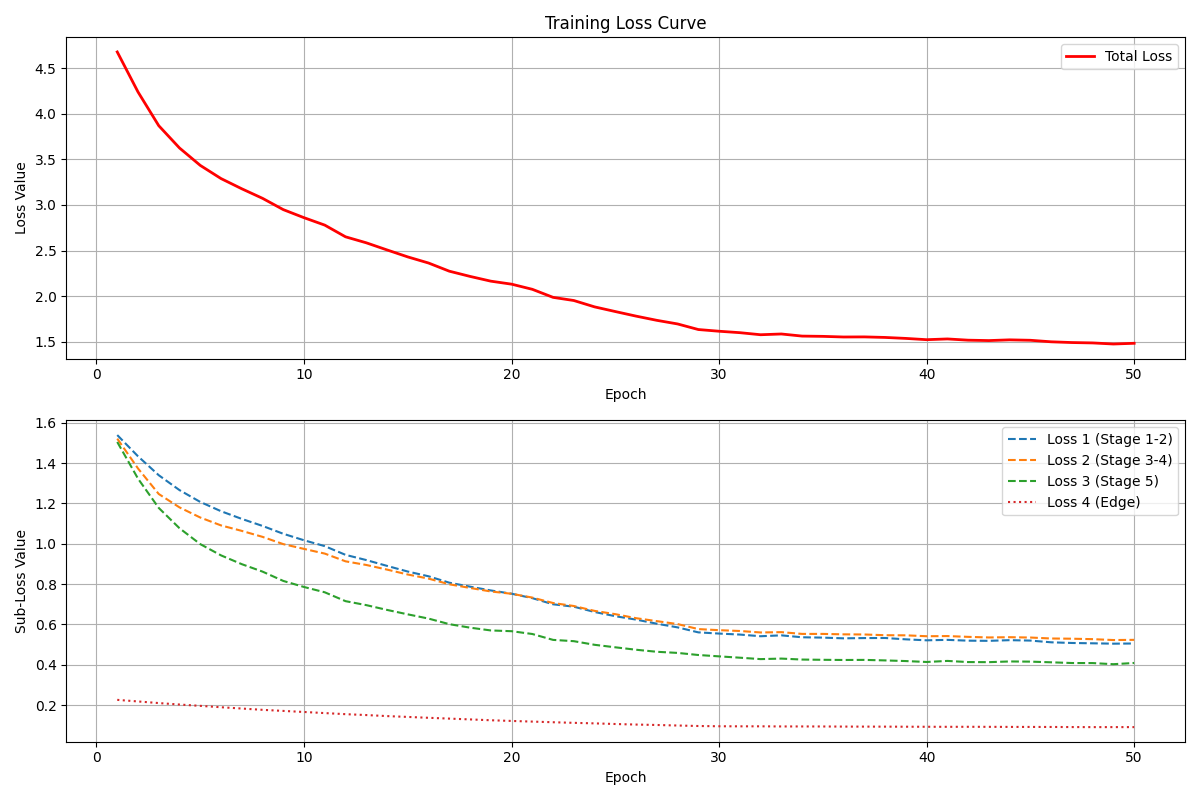
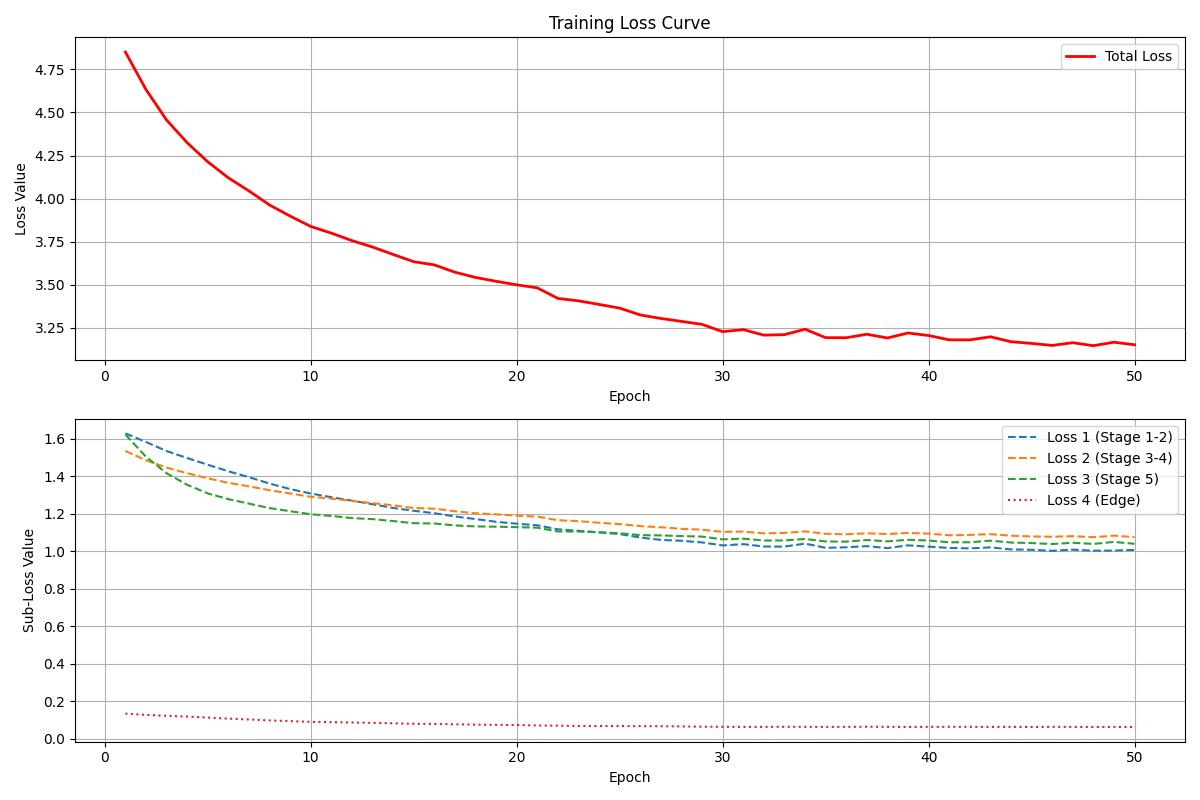
Update

diff --git a/project/train.py b/project/train.py
@@ -10,7 +10,7 @@ from tqdm import tqdm
 
 from utils.utils import clip_gradient, adjust_lr, IOU
 from utils.data import get_loader
-
+from models.backbone.mobileone import reparameterize_entire_model
 from models.SeaNet import MyNet as SeaNet
 
 device = torch.device('cuda' if torch.cuda.is_available() else 'cpu')
@@ -156,3 +156,43 @@ plt.legend()
 plt.tight_layout()
 plt.savefig('loss_curve.png')
 print("Loss curve saved as 'loss_curve.png'")
+
+import torch
+import onnx
+from onnxsim import simplify
+
+# 1. 确保模型处于 eval 模式 (非常重要，否则会导出 Dropout/BatchNorm 的训练状态)
+model.eval()
+
+model = reparameterize_entire_model(model)
+
+# 2. 创建一个虚拟输入张量
+# 假设你的输入图片大小是 288x288，通道数是 3，BatchSize 设为 1
+# 如果你的模型在 GPU 上，这个 tensor 也要放到 GPU 上
+dummy_input = torch.randn(1, 3, 288, 288).cuda()
+
+# 3. 导出模型
+torch.onnx.export(
+    model,                      # 你的模型对象
+    dummy_input,                # 【修正点】这里必须传虚拟输入，不能直接传文件名
+    "./models/SeaNet.onnx",              # 这里才是保存的文件名
+    export_params=True,         # 是否将权重存入文件
+    opset_version=18,           # 推荐使用 11 或更高，兼容性更好
+    do_constant_folding=False,   # 优化常量折叠
+    input_names=['input'],      # 输入节点命名
+    output_names=['output'],    # 输出节点命名
+    # 如果你想支持动态分辨率（比如输入图片大小不固定），可以加下面这行
+    # dynamic_axes={'input': {0: 'batch_size', 2: 'height', 3: 'width'}, 'output': {0: 'batch_size'}}
+)
+
+print("ONNX 模型导出成功！")
+
+print("正在使用 ONNX Simplifier 优化模型...")
+onnx_model = onnx.load("./models/SeaNet.onnx")
+model_simp, check = simplify(onnx_model)
+
+if check:
+    onnx.save(model_simp, "simp_SeaNet.onnx")
+    print(f"简化后的 ONNX 模型已成功保存至: simp_SeaNet.onnx")
+else:
+    print("警告: 简化后的模型未能通过 ONNX 验证！")

diff --git a/pth2onnx.py b/pth2onnx.py
@@ -1,5 +1,5 @@
 import torch
-from model.SeaNet_models import SeaNet
+from project.models.backbone.MobileNetV2 import MobileNetV2
 
 # 1. 实例化你的网络模型 (需要替换为你自己的模型类)
 # 这里假设你的模型类叫做 MyModel
@@ -8,11 +8,11 @@ from model.SeaNet_models import SeaNet
 
 
 # 2. 加载 .pth 权重文件
-pth_file_path = "models/SeaNet.pth"  # 替换为你的 pth 文件路径
+pth_file_path = "/home/ws/project/models/mobilenet_v2-b0353104.pth"  # 替换为你的 pth 文件路径
 
 # 常见情况一：pth 中只保存了 state_dict (推荐方式)
 # 使用 map_location 确保在没有 GPU 的机器上也能加载
-model = SeaNet()
+model = MobileNetV2()
 model.load_state_dict(torch.load(pth_file_path))
 
 # 常见情况二：pth 中保存了整个模型 (网络结构+权重)
@@ -28,7 +28,7 @@ model.cuda().eval()
 dummy_input = torch.randn(1, 3, 224, 224, device='cuda')
 
 # 5. 导出为 ONNX
-onnx_file_path = "models/SeaNet.pth.onnx"
+onnx_file_path = "models/mobilenet_v2.onnx"
 
 print("开始导出 ONNX 模型...")
 torch.onnx.export(
@@ -36,7 +36,7 @@ torch.onnx.export(
     dummy_input,                   # 模型的输入 (如果模型有多个输入，可以传入一个元组，如 (dummy_input1, dummy_input2))
     onnx_file_path,                # 保存 ONNX 文件的路径
     export_params=True,            # 是否将训练好的参数权重存储在 ONNX 文件中 (通常设为 True)
-    opset_version=17,              # ONNX 的 opset 版本 (11 比较常用且兼容性好，也可以根据需要尝试 12, 13, 14 等)
+    opset_version=18,              # ONNX 的 opset 版本 (11 比较常用且兼容性好，也可以根据需要尝试 12, 13, 14 等)
     do_constant_folding=True,      # 是否执行常量折叠优化 (提升推理速度)
     input_names=['input'],         # 为输入节点指定名称 (可选，但建议指定)
     output_names=['output'],       # 为输出节点指定名称 (可选，但建议指定)

diff --git a/project/pth2onnx.py b/project/pth2onnx.py
@@ -1,0 +1,47 @@
+import torch
+import onnx
+from onnxsim import simplify
+
+from models.backbone.MobileNetV3 import mobilenet_v3
+from models.backbone.repVGG import create_RepVGG_A0
+from models.backbone.mobileone import mobileone
+
+# model = mobilenet_v3(pretrained=True)
+model = mobileone(inference_mode=False)
+
+model_name = "mobileone_no_infer"
+
+model.cuda()
+# 1. 确保模型处于 eval 模式 (非常重要，否则会导出 Dropout/BatchNorm 的训练状态)
+model.eval()
+
+# 2. 创建一个虚拟输入张量
+# 假设你的输入图片大小是 288x288，通道数是 3，BatchSize 设为 1
+# 如果你的模型在 GPU 上，这个 tensor 也要放到 GPU 上
+dummy_input = torch.randn(1, 3, 288, 288).cuda()
+
+# 3. 导出模型
+torch.onnx.export(
+    model,                      # 你的模型对象
+    dummy_input,                # 【修正点】这里必须传虚拟输入，不能直接传文件名
+    f"./models/{model_name}.onnx",              # 这里才是保存的文件名
+    export_params=True,         # 是否将权重存入文件
+    opset_version=18,           # 推荐使用 11 或更高，兼容性更好
+    do_constant_folding=False,   # 优化常量折叠
+    input_names=['input'],      # 输入节点命名
+    output_names=['output'],    # 输出节点命名
+    # 如果你想支持动态分辨率（比如输入图片大小不固定），可以加下面这行
+    # dynamic_axes={'input': {0: 'batch_size', 2: 'height', 3: 'width'}, 'output': {0: 'batch_size'}}
+)
+
+print("ONNX 模型导出成功！")
+
+print("正在使用 ONNX Simplifier 优化模型...")
+onnx_model = onnx.load(f"./models/{model_name}.onnx")
+model_simp, check = simplify(onnx_model)
+
+if check:
+    onnx.save(model_simp, f"simp_{model_name}.onnx")
+    print(f"简化后的 ONNX 模型已成功保存至: simp_{model_name}.onnx")
+else:
+    print("警告: 简化后的模型未能通过 ONNX 验证！")
